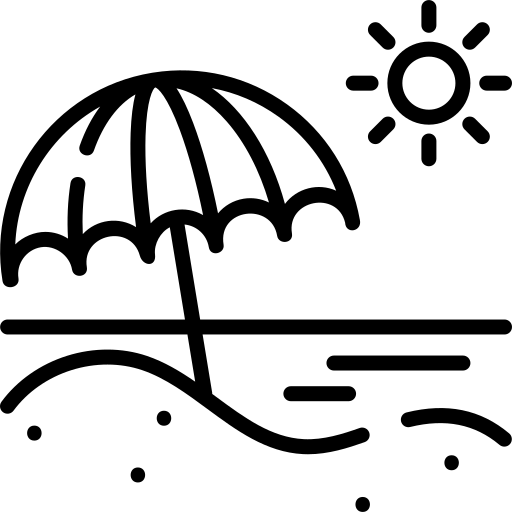
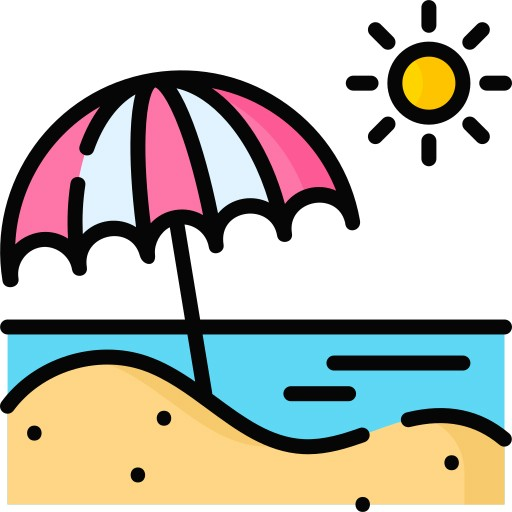
[FIX] ni_community_care_attendance : fix bug employee dashboard

diff --git a/ni_community_care_attendance/models/hr_employee_report.py b/ni_community_care_attendance/models/hr_employee_report.py
@@ -5,76 +5,9 @@ class EmployeeReport(models.Model):
     _name = "ni.employee.report"
     _description = "Employee Report"
 
-    # @api.model
-    # def get_employee_dashboard(self):
-    #     user = self.env.user
-    #
-    #     employees = self.env["hr.employee"].search(
-    #         [("city_ids", "in", user.employee_id.city_ids.ids)]
-    #     )
-    #     employee_ids = employees.ids
-    #
-    #     total_employees = len(employees)
-    #     attended = employees.filtered(lambda e: e.attended_today)
-    #     attended_count = len(attended)
-    #
-    #     # วันนี้
-    #     today_start = datetime.combine(date.today(), datetime.min.time())
-    #     today_end = datetime.combine(date.today(), datetime.max.time())
-    #
-    #     # หา user_ids ของพนักงาน
-    #     user_ids = (
-    #         self.env["res.users"].search([("employee_id", "in", employee_ids)]).ids
-    #     )
-    #
-    #     # ดึงกิจกรรมวันนี้
-    #     events_today = self.env["ni.service.event"].search(
-    #         [
-    #             ("user_id", "in", user_ids),
-    #             ("stop", ">=", today_start),
-    #             ("start", "<=", today_end),
-    #         ]
-    #     )
-    #
-    #     # นับจำนวนผู้สูงอายุที่ได้รับการดูแล (ไม่ซ้ำ)
-    #     patient_ids_set = set()
-    #     for event in events_today:
-    #         patient_ids_set.update(event.plan_patient_ids.ids)
-    #     cared_count = len(patient_ids_set)
-    #
-    #     res = {
-    #         "attended_today": {
-    #             "description": _("เข้างานวันนี้"),
-    #             "amount": attended_count,
-    #             "target": total_employees,
-    #             "class": "text-success",
-    #             "icon": "fa-check-circle",
-    #         },
-    #         "cared_today": {
-    #             "description": _("ผู้สูงอายุที่ได้รับการดูแลในวันนี้"),
-    #             "amount": cared_count,
-    #             "target": 0,
-    #             "class": "text-odoo",
-    #             "icon": "fa-user",
-    #         },
-    #         "event_today": {
-    #             "description": _("กิจกรรมดูแลผู้สูงอายุในวันนี้"),
-    #             "amount": len(events_today),
-    #             "target": 0,
-    #             "class": "text-danger",
-    #             "icon": "fa-calendar",
-    #         },
-    #     }
-    #
-    #     return res
-
     @api.model
     def get_employee_dashboard(self):
-        user = self.env.user
-
-        employees = self.env["hr.employee"].search(
-            [("city_ids", "in", user.employee_id.city_ids.ids)]
-        )
+        employees = self.env["hr.employee"].search([("my_area", "=", True)])
         total_employees = len(employees)
 
         # คนที่มาทำงาน

diff --git a/ni_community_care/models/ni_service_event_approval.py b/ni_community_care/models/ni_service_event_approval.py
@@ -28,8 +28,8 @@ class ServiceEventApproval(models.Model):
     last_pdf_error = fields.Text(string="Last PDF Error", readonly=True)
 
     city_ids = fields.Many2many(
-        comodel_name="res.city",  # เปลี่ยนเป็นโมเดลจริงของคุณ ถ้าไม่ใช่ res.city
-        related="user_id.employee_id.city_ids",
+        comodel_name="res.city",
+        related="user_id.city_ids",
         string="เขตพื้นที่รับผิดชอบ",
         readonly=True,
     )
